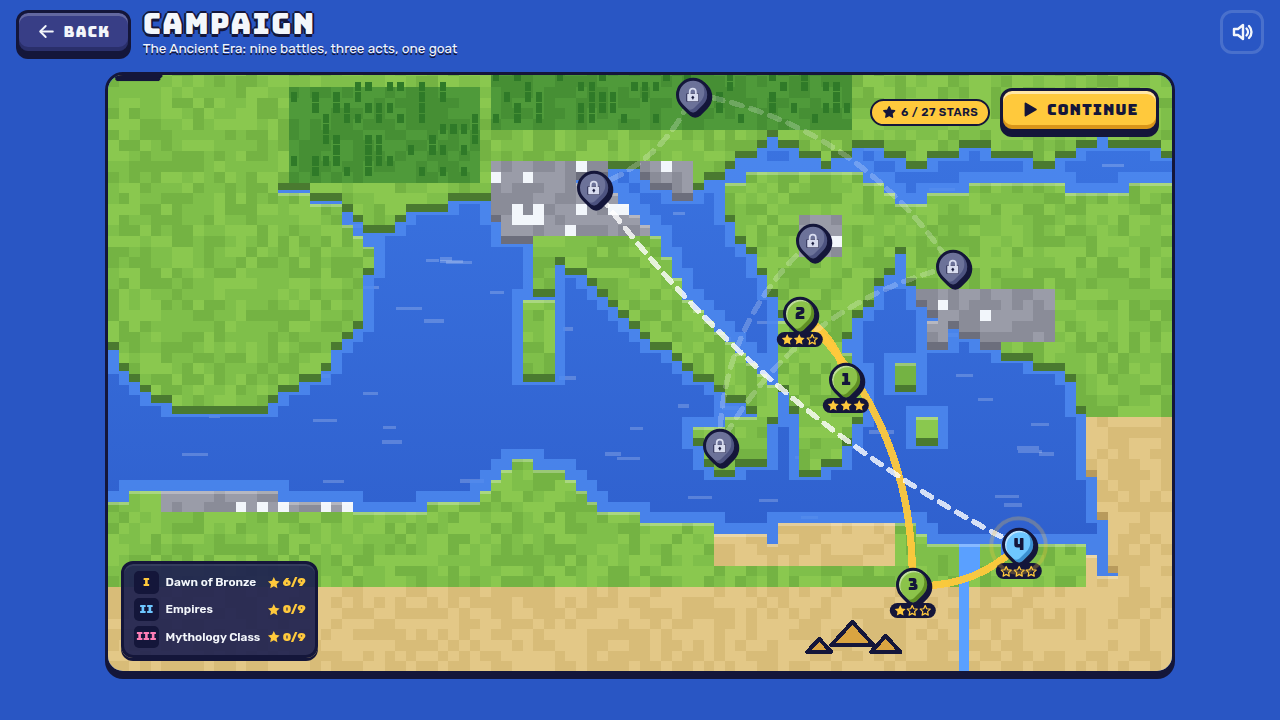
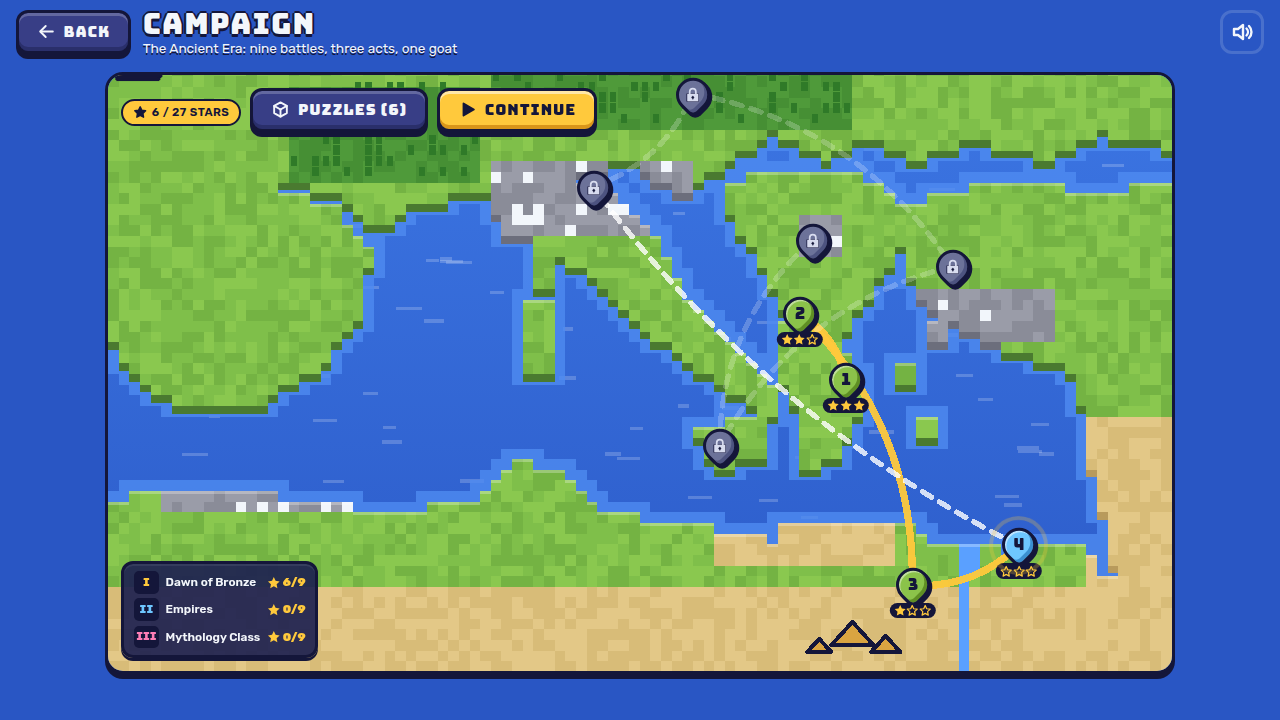
Status tints in the skin shader, minimap feed verified, flow/tour tools

Changed region(s): [[0.0938, 0.1222, 0.4688, 0.2139], [0.6562, 0.1222, 0.9062, 0.2139]]

diff --git a/src/ui/screens/stats.js b/src/ui/screens/stats.js
@@ -45,10 +45,24 @@ export function mount(root, ctx, params) {
   ];
   const absurdEl = K.h('div', { class: 'vw-stats__absurd' }, ...absurd.map(([n, v, s]) => K.h('div', { class: 'vw-ab' }, K.h('div', { class: 'vw-ab__v vw-display', text: v }), K.h('div', { class: 'vw-ab__n', text: n }), K.h('div', { class: 'vw-ab__s vw-small vw-dim', text: s }))));
 
+  // hall of fame from the nested maps (byDef: {id:{spawned,kills,deaths}}, arenasPlayed: {arenaId:n}); both are optional
+  const nameOfUnit = (id) => safe(() => ctx.content.units[id].name, id);
+  const nameOfArena = (id) => safe(() => ctx.content.arenas.find((a) => a.id === id).name, id);
+  const byDef = tot.byDef && typeof tot.byDef === 'object' ? tot.byDef : {};
+  const topUnits = Object.keys(byDef).map((id) => ({ id, k: +(byDef[id] || {}).kills || 0, s: +(byDef[id] || {}).spawned || 0 })).filter((x) => x.k > 0).sort((a, b) => b.k - a.k).slice(0, 5);
+  const ap = tot.arenasPlayed && typeof tot.arenasPlayed === 'object' ? tot.arenasPlayed : {};
+  const topArenas = Object.keys(ap).map((id) => ({ id, n: +ap[id] || 0 })).filter((x) => x.n > 0).sort((a, b) => b.n - a.n).slice(0, 3);
+  const fameBody = (topUnits.length || topArenas.length)
+    ? K.h('div', { class: 'vw-col' },
+      topUnits.length ? K.h('div', { class: 'vw-label', text: T.topUnits }) : null,
+      ...topUnits.map((x) => K.statBar(nameOfUnit(x.id), x.k, topUnits[0].k, { tone: 'olive', text: `${K.fmtNum(x.k)} ${T.kills}` })),
+      topArenas.length ? K.h('div', { class: 'vw-label', text: T.topArenas }) : null,
+      ...topArenas.map((x) => K.statBar(nameOfArena(x.id), x.n, topArenas[0].n, { tone: 'sky', text: T.battlesN(x.n) })))
+    : null;
   const empty = !keys.length || !g('battles');
   const frame = K.pageFrame({ id: 'st', title: T.title, sub: T.sub, onBack: () => ctx.nav.back() });
-  if (empty && !keys.length) frame.content.appendChild(K.tablet(T.title, K.emptyState({ icon: 'target', title: T.title, text: T.empty }), { id: 'st-empty' }));
-  else frame.content.appendChild(K.h('div', { class: 'vw-col' }, headline, K.h('div', { class: 'vw-stats__cols' }, K.tablet(T.serious, table, { id: 'st-serious', icon: 'list' }), K.tablet(T.absurd, absurdEl, { id: 'st-absurd', icon: 'dice' }))));
+  if (empty && !keys.length) frame.content.appendChild(K.tablet(T.title, K.emptyState({ icon: 'target', title: T.emptyTitle || T.title, text: T.empty }), { id: 'st-empty' }));
+  else frame.content.appendChild(K.h('div', { class: 'vw-col' }, headline, K.h('div', { class: 'vw-stats__cols' }, K.h('div', { class: 'vw-col' }, K.tablet(T.serious, table, { id: 'st-serious', icon: 'list' }), fameBody ? K.tablet(T.fame, fameBody, { id: 'st-fame', icon: 'trophy' }) : null), K.tablet(T.absurd, absurdEl, { id: 'st-absurd', icon: 'dice' }))));
   frame.mount(root);
   K.enter(Array.from(frame.content.querySelectorAll('.vw-tablet, .vw-statile')), 'pop', 0);
   cleanups.push(frame.destroy);

diff --git a/src/content/era_ancient/campaign.js b/src/content/era_ancient/campaign.js
@@ -90,11 +90,11 @@ const RAW = [
   {
     id: 'nile_crossing', unitsA: 50, act: 2, mood: 'tense',
     arena: { recipe: 'nile', size: 'medium', seed: 4, env: {}, markers: [{ id: 'goat_start', type: 'vip_start', x: -24, z: -22, r: 3 }, { id: 'far_bank', type: 'exit', x: 8, z: 12, r: 4 }] },
-    playerFaction: 'egyptians', roster: ['medjay', 'nubian_archer', 'khopesh_warrior', 'chariot_archer', 'anubis_guard', 'priest_of_ra'], budget: 6500, par: 0,
+    playerFaction: 'egyptians', roster: ['medjay', 'khopesh_warrior', 'mummy', 'chariot_archer', 'anubis_guard', 'priest_of_ra'], budget: 6500, par: 0,
     fixed: [{ defId: 'battle_goat', marker: 'goat_start', vip: true, heading: Math.PI / 2, name: 'The Goat', def: { melee: null, abilities: [], ai: { style: 'hold' } } }],
     enemy: { faction: 'barbarians', style: 'ford ambush', difficulty: 'normal', special: 'goes for the goat',
       groups: [{ defId: 'berserker', n: 12, at: { x: 4, z: 17 }, order: 'hold', squad: 6 }, { defId: 'axe_thrower', n: 8, at: { x: 10, z: 20 }, order: 'hold', squad: 8 }, { defId: 'druid', n: 10, at: { x: 12, z: 24 }, order: 'hold', squad: 5 }, { defId: 'chieftain', n: 4, at: { x: 8, z: 18 }, order: 'hold' }, { defId: 'warhound', n: 20 }] },
-    objective: { type: 'protect_vip', params: { time: 150, reachOnly: true }, markerIds: ['goat_start', 'far_bank'], binding: true }, timeLimit: 200,
+    objective: { type: 'protect_vip', params: { time: 150, reachOnly: true }, markerIds: ['goat_start', 'far_bank'], binding: true }, timeLimit: 150,
     script: { vipMarch: { to: 'far_bank', delay: 12, clear: 14 } },
     rules: ['The Goat is a free extra unit. It waits at its start and walks to the far bank by itself once nothing hostile stands near the way (never before twelve seconds): clear the road.', 'Win by getting the Goat inside the exit marker. If it falls, you lose.', 'Star 3: the Goat takes no damage at all.'],
     starTests: [null, null, T.goatUntouched],
@@ -103,7 +103,7 @@ const RAW = [
   {
     id: 'alps_elephant', unitsA: 83, act: 2, mood: 'ominous',
     arena: { recipe: 'alpine', size: 'medium', seed: 9, env: {}, markers: [] },
-    playerFaction: 'carthage', roster: ['war_elephant', 'numidian', 'catapult', 'hannibal', 'berserker', 'axe_thrower', 'warhound'], budget: 11000, par: 0,
+    playerFaction: 'carthage', roster: ['war_elephant', 'numidian', 'catapult', 'hannibal', 'berserker', 'axe_thrower', 'warhound', 'druid', 'chieftain', 'hoplite', 'peltast', 'cretan_archer', 'nubian_archer', 'medjay'], budget: 11000, par: 0,
     core: [{ defId: 'war_elephant', n: 2 }],
     enemy: { faction: 'romans', style: 'legion with fire', difficulty: 'normal', special: 'auxiliary archers with fire arrows',
       groups: [{ defId: 'legionary', n: 34 }, { defId: 'pilum_thrower', n: 14 }, { defId: 'nubian_archer', n: 17 }, { defId: 'equites', n: 7 }, { defId: 'ballista', n: 2 }, { defId: 'centurion', n: 2 }] },

diff --git a/src/render/voxskin.js b/src/render/voxskin.js
@@ -4,7 +4,7 @@
 //  * Per-instance part transforms (3x4 affine, rows) live in a RGBA32F DataTexture: texel (3*part + k, instance) = row k.
 //    The vertex shader fetches them with texelFetch (WebGL2) and skins the vertex, then three's normal
 //    instancing applies the unit's world matrix (instanceMatrix).
-//  * Per-instance attributes: instanceColor (team tint rgb, linear), aFx (flash, stone, glow, texture row).
+//  * Per-instance attributes: instanceColor (team tint rgb, linear), aFx (flash, stone, glow + 4*statusTintMode, texture row).
 //  * Optional far LOD ({lod:true}): a second InstancedMesh with half-resolution part geometry (~1/4 of the triangles, no shadow) sharing the same
 //    material and texture; add(..., lod=1) puts a unit there. Rows are handed out by one counter, so both meshes address the same texture.
 //  * Shadows use a matching customDepthMaterial so shadows follow the posed model.
@@ -74,8 +74,15 @@ varying vec4 vFx;
 varying float vGlow;`)
       .replace('#include <tonemapping_fragment>', `
   float vsLum = dot(gl_FragColor.rgb, vec3(0.299, 0.587, 0.114));
+  float vsMode = floor(vFx.z * 0.25 + 0.001);                    // status tint mode rides on the glow channel: glow + 4 * mode
+  float vsGlow = vFx.z - vsMode * 4.0;
   gl_FragColor.rgb = mix(gl_FragColor.rgb, vec3(vsLum * 0.85 + 0.08), vFx.y);                 // stone
-  gl_FragColor.rgb = mix(gl_FragColor.rgb, diffuseColor.rgb * (1.35 + vFx.z), vGlow * (1.0 - vFx.y));   // glow voxels
+  gl_FragColor.rgb = mix(gl_FragColor.rgb, diffuseColor.rgb * (1.35 + vsGlow), vGlow * (1.0 - vFx.y));   // glow voxels
+  if (vsMode > 0.5) {                                                                          // status tint: 1 burn, 2 poison, 3 frozen/rooted, 4 asleep, 5 rage, 6 tipsy/confused, 7 cursed
+    vec3 vsT = vsMode < 1.5 ? vec3(1.0, 0.5, 0.12) : vsMode < 2.5 ? vec3(0.38, 0.95, 0.28) : vsMode < 3.5 ? vec3(0.5, 0.85, 1.0) : vsMode < 4.5 ? vec3(0.28, 0.34, 0.7) : vsMode < 5.5 ? vec3(1.0, 0.22, 0.16) : vsMode < 6.5 ? vec3(0.85, 0.4, 0.9) : vec3(0.5, 0.22, 0.6);
+    float vsK = vsMode < 1.5 ? 0.42 : 0.34;
+    gl_FragColor.rgb = mix(gl_FragColor.rgb, vsT * (vsLum * 0.75 + (vsMode < 1.5 ? 0.55 : 0.3)), vsK * (1.0 - vFx.y));
+  }
   gl_FragColor.rgb = mix(gl_FragColor.rgb, vec3(1.0, 0.93, 0.78), vFx.x * 0.8);                // hit flash
 #include <tonemapping_fragment>`);
   };

diff --git a/src/content/era_ancient/parts/units_b_persians.js b/src/content/era_ancient/parts/units_b_persians.js
@@ -224,6 +224,23 @@ BK.scimitar_back = {
   },
 };
 
+// Xerxes brings a throne to battle: a little gold folding throne strapped to his back, facing backwards (the viewer behind him gets the seat and the cushion)
+BK.travel_throne = {
+  name: 'Pocket throne',
+  build(ctx) {
+    const g = newGrid('back');
+    const gold = (x, y, z, f = 1) => V(shade(ctx.m[2], f * (0.88 + 0.2 * hash3(x, y, z, 31))));
+    B(g, 3, 5, 6, 8, 13, 7, (x, y, z) => ((x === 3 || x === 8 || y === 13) ? V(ctx.m[3]) : gold(x, y, z)));     // backrest
+    B(g, 4, 7, 6, 7, 11, 6, (x, y, z) => V(shade(ctx.c.primary, 0.85 + 0.15 * ((x + y) % 2))));                  // purple panel
+    P(g, 5, 9, 6, V(ctx.m[4])); P(g, 6, 9, 6, V(ctx.m[4])); P(g, 5, 10, 6, V(ctx.m[4])); P(g, 6, 8, 6, V(ctx.m[4]));       // sun in the panel
+    P(g, 3, 13, 6, V(ctx.m[4])); P(g, 8, 13, 6, V(ctx.m[4]));                                                       // finials
+    B(g, 3, 4, 2, 8, 5, 5, (x, y, z) => (y === 5 ? ((x > 3 && x < 8 && z > 2) ? V(shade(ctx.c.primary, 1.0)) : V(ctx.m[3])) : gold(x, y, z, 0.9)));   // seat with a cushion
+    for (const [x, z] of [[3, 2], [8, 2], [3, 5], [8, 5]]) B(g, x, 0, z, x, 3, z, gold(x, 1, z, 0.85));            // legs
+    B(g, 3, 6, 3, 3, 6, 5, V(ctx.m[3])); B(g, 8, 6, 3, 8, 6, 5, V(ctx.m[3]));                                    // arm rests
+    return g;
+  },
+};
+
 // ---------------------------------------------------------------------------------------------------------------- weapons
 /** one-handed bow (the sparabara holds it in the right hand behind his pavise): a copy of the library bow without the two-handed flag */
 function oneHandBow(name, o) {
@@ -289,8 +306,9 @@ O.gerron = {
     }
     B(g, 3, 7, 5, 12, 7, 5, V(shade(0x6a4a2a, 0.95)));                                // lashing
     B(g, 7, 3, 5, 8, 11, 5, V(shade(0x6a4a2a, 0.95)));
-    B(g, 6, 6, 5, 9, 8, 5, (x, y) => V(ctx.m[(x + y) % 2 ? 3 : 4]));                  // boss
-    P(g, 7, 7, 5, V(ctx.m[4]));
+    // the boss is a gold asterisk on a dark patch: the Immortal revives once*
+    B(g, 5, 5, 5, 9, 9, 5, V(shade(0x4a2e18, 0.9)));
+    sprite(g, ['..#..', '#.#.#', '.###.', '#.#.#', '..#..'], 5, 9, 5, { '#': V(ctx.m[4]) });
     return g;
   },
 };

diff --git a/src/ui/keymap.js b/src/ui/keymap.js
@@ -8,6 +8,7 @@ export const CONTEXTS = [
   { id: 'control', label: 'Battle control', domain: 'battle' },
   { id: 'placement', label: 'Placement', domain: 'placement' },
   { id: 'command', label: 'Take Command', domain: 'command' },
+  { id: 'results', label: 'Results screen', domain: 'results' },
 ];
 
 /** Rebindable actions. `alt` = an extra fixed alias (shown, not rebindable). */
@@ -27,6 +28,11 @@ export const KEY_ACTIONS = [
   { id: 'pause', ctx: 'control', label: 'Pause', def: 'Space' },
   { id: 'slower', ctx: 'control', label: 'Slower', def: 'BracketLeft' },
   { id: 'faster', ctx: 'control', label: 'Faster', def: 'BracketRight' },
+  { id: 'erase', ctx: 'placement', label: 'Erase brush', def: 'Delete', alt: ['Backspace'] },
+  { id: 'brush', ctx: 'placement', label: 'Cycle brush', def: 'KeyB' },
+  { id: 'rematch', ctx: 'results', label: 'Rematch', def: 'KeyR' },
+  { id: 'tweak', ctx: 'results', label: 'Tweak the army', def: 'KeyT' },
+  { id: 'killcam', ctx: 'results', label: 'Kill-cam', def: 'KeyK' },
 ];
 
 /** Fixed keys per context (read-only reference, also used for conflict detection). */
@@ -40,7 +46,7 @@ export const FIXED_KEYS = {
   ],
   placement: [
     { label: 'Place / paint', keys: [], text: 'Left click' }, { label: 'Orbit camera', keys: [], text: 'Right drag' }, { label: 'Undo', keys: [], text: 'Ctrl/Cmd + Z' }, { label: 'Redo', keys: [], text: 'Ctrl/Cmd + Shift + Z' },
-    { label: 'Erase', keys: ['Delete'] }, { label: 'Cycle brush', keys: ['KeyB'] }, { label: 'Rotate formation', keys: ['KeyQ', 'KeyE'] }, { label: 'Focus FIGHT', keys: ['Space'] },
+    { label: 'Rotate camera', keys: ['KeyQ', 'KeyE'] }, { label: 'Focus FIGHT', keys: ['Space'] },
   ],
   command: [
     { label: 'Move', keys: ['KeyW', 'KeyA', 'KeyS', 'KeyD'] }, { label: 'Attack nearest', keys: [], text: 'Click or tap' }, { label: 'Abilities 1 to 3', keys: ['Digit1', 'Digit2', 'Digit3'] }, { label: 'Sprint', keys: ['ShiftLeft'] }, { label: 'Exit Take Command', keys: ['Escape'] },

diff --git a/src/render/battleview.js b/src/render/battleview.js
@@ -17,6 +17,19 @@ const PROJ_VIS = {
   boulder: [0.9, 0.9, 0x8d8d92, 0], coin: [0.22, 0.22, 0xffd23a, 0.6], sunbeam: [1.2, 0.14, 0xfff2a0, 1], scepter: [0.7, 0.4, 0x60ffb0, 1], thunderbolt: [1.4, 0.14, 0x9fd0ff, 1],
 };
 
+/** status tint mode for the shader (voxskin.js): 0 none, 1 burn, 2 poison, 3 frozen/rooted, 4 asleep, 5 rage, 6 tipsy/confused, 7 cursed. SE indices from sim/consts.js. */
+function statusMode(se) {
+  if (!se) return 0;
+  if (se[0] > 0) return 1;            // BURN
+  if (se[13] > 0) return 2;           // POISON
+  if (se[5] > 0) return 4;            // SLEEP
+  if (se[3] > 0) return 3;            // ROOT
+  if (se[7] > 0) return 5;            // RAGE
+  if (se[4] > 0 || se[12] > 0) return 6;   // CONFUSE, TIPSY
+  if (se[10] > 0) return 7;           // CURSE
+  return 0;
+}
+
 export class BattleView {
   /**
    * @param {object} o {engine, fx, animator, modelFor(def, unit)->{model, scale?:[x,y,z]}, palette?, gore?}
@@ -108,7 +121,7 @@ export class BattleView {
       let st = u.anim;
       if (this._hs.size) { const hs = this._hs.get(u.id); if (hs) { if (this.time >= hs.until) this._hs.delete(u.id); else { const a = this._hsAnim; a.clip = st.clip; a.t = hs.t; a.rate = st.rate; a.flinch = st.flinch; a.dir = st.dir; a.prev = st.prev; a.blend = st.blend; st = a; } } }
       this.animator.pose(r.model, st, ex, r.pose);
-      r.skin.add(x + rt.x, y + rt.y, z + rt.z, h + rt.yaw, s * sv[0], s * sv[1], s * sv[2], r.pose, this._team(u.team), u.flash, u.stone, r.glow, (u.pitch || 0) + rt.pitch, (u.roll || 0) + rt.roll, d2 > this.lodDist * this.lodDist ? 1 : 0);
+      r.skin.add(x + rt.x, y + rt.y, z + rt.z, h + rt.yaw, s * sv[0], s * sv[1], s * sv[2], r.pose, this._team(u.team), u.flash, u.stone, r.glow + 4 * statusMode(u.se), (u.pitch || 0) + rt.pitch, (u.roll || 0) + rt.roll, d2 > this.lodDist * this.lodDist ? 1 : 0);
       this.drawn++;
     };
     const U = w.units;

diff --git a/src/ui/screens/placement.js b/src/ui/screens/placement.js
@@ -6,6 +6,7 @@ import { getT } from '../strings.js';
 import { safe, unitsOf, factionIds, AI_STYLES, seenHint, setSeenHint } from './_shared.js';
 import { factionColor, factionName, ROLES, ROLE_LABEL, ROLE_ICON } from '../unitinfo.js';
 import { encodeShare, importShare } from '../../save/share.js';
+import { currentKeys } from '../keymap.js';
 
 export const meta = { id: 'placement', layer: 'battle', music: 'battle', canvas: 'scene' };
 
@@ -421,8 +422,9 @@ export function mount(root, ctx, params) {
       if (mod && e.code === 'KeyZ') { e.preventDefault(); if (e.shiftKey) G.tools.redo(); else G.tools.undo(); lastSig = ''; refresh(true); return true; }
       if (mod && e.code === 'KeyY') { e.preventDefault(); G.tools.redo(); lastSig = ''; refresh(true); return true; }
       if (mod || e.altKey) return false;
-      if (e.code === 'KeyB') { setMode(MODES[(MODES.indexOf(S.mode) + 1) % MODES.length]); K.sfx('ui_tick'); return true; }
-      if (e.key === 'Delete' || e.key === 'Backspace') { setMode('erase'); return true; }
+      const keys = currentKeys(ctx.settings);   // rebindable in Settings > Controls; the game's input layer uses the same ids (settings.keys[id] || default)
+      if (e.code === keys.brush) { setMode(MODES[(MODES.indexOf(S.mode) + 1) % MODES.length]); K.sfx('ui_tick'); return true; }
+      if (e.code === keys.erase || e.code === 'Backspace') { setMode('erase'); return true; }
       if (e.code === 'Space') { if (document.activeElement === fightBtn) return false; e.preventDefault(); fightBtn.focus(); return true; }
       if (e.key === '?' || e.code === 'KeyH') { showHints(0); return true; }
       return false;

diff --git a/src/content/era_ancient/units/units_b.js b/src/content/era_ancient/units/units_b.js
@@ -16,7 +16,7 @@ export const BLUEPRINTS = {
     shoulders: 'none', cape: 'none', back: 'quiver', main: 'sparabara_bow', off: 'pavise_wall', colors: PERSIAN, emblem: 'none', paint: {} }),
   xerxes: bp({ v: 1, id: 'xerxes', name: 'Xerxes', body: { type: 'average', skin: '#cf9a6c', hair: '#6e4c32' },
     head: { helm: 'royal_tiara', hair: 'short', face: 'beard_ringlets', eyes: '#222222' }, torso: { armor: 'none', tunic: 'royal_robe' }, legs: { armor: 'bare', skirt: 'none' },
-    shoulders: 'none', cape: 'long', back: 'none', main: 'scimitar', off: 'parma', colors: Object.assign({}, PERSIAN, { metal: 'gold' }), emblem: 'sun', paint: {} }),
+    shoulders: 'none', cape: 'long', back: 'travel_throne', main: 'scimitar', off: 'parma', colors: Object.assign({}, PERSIAN, { metal: 'gold' }), emblem: 'sun', paint: {} }),
   rider_cataphract: bp({ v: 1, id: 'rider_cataphract', name: 'Cataphract', body: { type: 'average', skin: '#cf9a6c', hair: '#2a1a10' },
     head: { helm: 'cataphract_helm', hair: 'short', face: 'none', eyes: '#222222' }, torso: { armor: 'scale_hauberk', tunic: 'none' }, legs: { armor: 'persian_trousers', skirt: 'none' },
     shoulders: 'none', cape: 'long', back: 'none', main: 'kontos_pennon', off: 'buckler', colors: PERSIAN, emblem: 'none', paint: {} }),

diff --git a/src/content/era_ancient/parts/units_a_gear.js b/src/content/era_ancient/parts/units_a_gear.js
@@ -74,7 +74,7 @@ M.khopesh_spear_pennon = {
 /** The strategos' standard, trimmed to the height budget: the same swung-staff banner as the core `standard` but the pole top stays under y 34 (3.4 u) at rest, so the whole
  *  unit (cloth >= 9x10 voxels, team colour, emblem and fringe) stays inside U2's height ceiling. The pole leans a little outward so the cloth clears the crest. */
 M.standard_general = {
-  name: 'General\'s standard (banner)', meta: { style: 'bash', ready: 84, len: 24, back: 6, rest: [R_UP, 0, 0.14], grip: [4, 10, 4], minLen: 20, kind: 'melee', noClamp: true, faction: 'hellenes' },
+  name: 'General\'s standard (banner)', meta: { style: 'slash', ready: 84, len: 24, back: 6, rest: [R_UP, 0, 0.24], grip: [4, 10, 4], minLen: 20, kind: 'melee', noClamp: true, faction: 'hellenes' },
   build(ctx) {
     const g = newGrid('weapon'), yt = 9 + ctx.len, y0 = 10 - ctx.back;
     for (let y = y0 + 1; y <= yt - 2; y++) B(g, 4, y, 4, 4, y, 4, wood(y, 1, 0x7a5030));

diff --git a/docs/requests/units_a_integration.md b/docs/requests/units_a_integration.md
@@ -27,7 +27,7 @@ anubis_guard, priest_of_ra, pharaoh + the compact chariot crew (`crew_chariot_dr
 
 ## ANIM
 - `strategos` carries `standard_general` instead of the core `standard`: the core pole reaches 3.86 u at rest, the brief (units.md, strategos) wants the pole top <= y 34. The new one is 24 voxels long
-  and its rest rotation is `[0.3, 0, 0.14]`: **rz 0.14** leans the pole outward so the cloth clears the crest. Derive the axis from the full `R_rest*(0,1,0)` as units_lib.md says.
+  and its rest rotation is `[0.3, 0, 0.24]`: **rz 0.24** leans the pole outward so the cloth clears the crest. Derive the axis from the full `R_rest*(0,1,0)` as units_lib.md says.
 - `coin_bag` (senator) is carried like a sword (`rest [2.44,0,0]`: hangs down-forward at the hip, bag at the end); `scroll` (philosopher) `rest [0.7,0,0]`, both style `throw`/`bash` with small `ready` values.
 - Capes with sway: `bandage_trail` (mummy: six loose strips of different length, ragged tips, shawl at the top), `royal_cape` (pharaoh), `striped_cloak` is registered but unused (the peltast wears the mantle).
 - The philosopher's mouth is a dark 2x1 voxel gap at head (x4..5, y0, z8..9) under the moustache: speech bubbles can start at the `eyes`/`head` attach; mummy and priest carry GLOW voxels (eyes, sun disc, staff).
